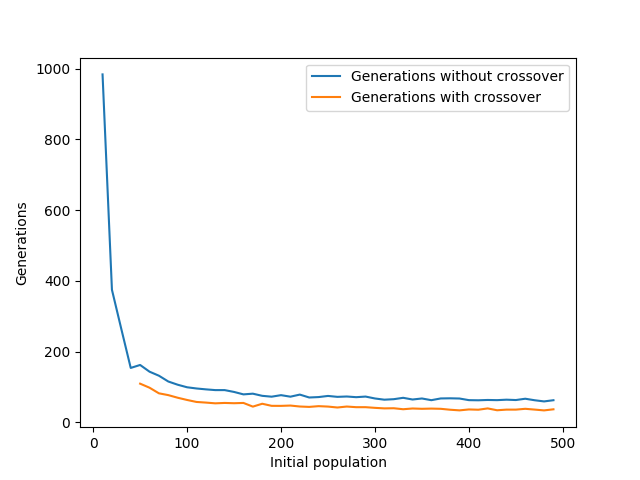
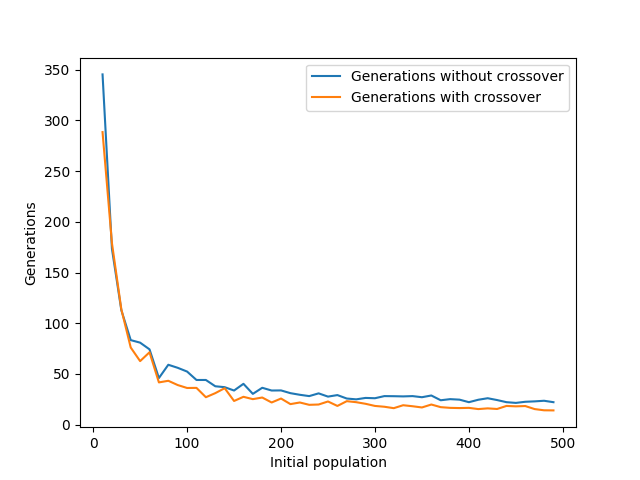
Implemented top 10% elitist selection and created new data sets and charts

diff --git a/word_generator.py b/word_generator.py
@@ -41,7 +41,7 @@ target_individual_index = check_for_matching_word(population, test_word)
 
 while target_individual_index == -1:
     fitnesses = compute_population_fitness(population, test_word)
-    individuals_for_breeding = elitist_selection(fitnesses, int(population_size / 2), min([5, population_size / 5]))
+    individuals_for_breeding = elitist_selection(fitnesses, max([int(population_size / 10), 2]))
     
     new_generation = create_children(individuals_for_breeding, population_size)
     

diff --git a/population.py b/population.py
@@ -62,14 +62,11 @@ def mutate_population (population, mutation_chance):
     
     return population
 
-def elitist_selection(sorted_population, fit_count, unfit_count):
+def elitist_selection(sorted_population, fit_count):
     next_gen = []
 
     for i in range(fit_count):
         next_gen.append(sorted_population[i][0])
-
-    for i in range(unfit_count):
-        next_gen.append(random.choice(sorted_population)[0])
     
     random.shuffle(next_gen)
 
